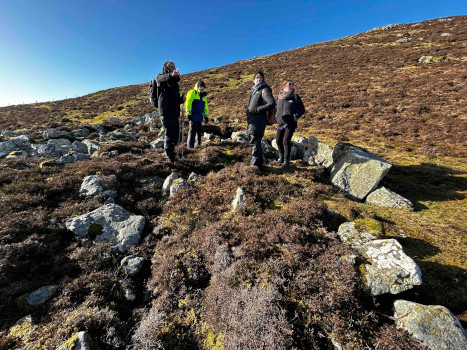
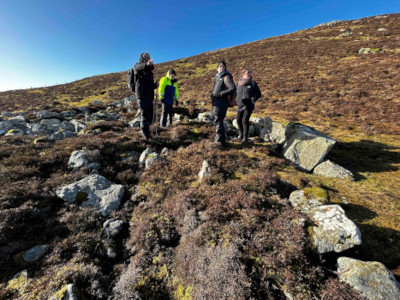
add rainbow

Changed region(s): [[0.78, 0.99, 0.81, 1.0]]

diff --git a/_includes/events.html b/_includes/events.html
@@ -192,12 +192,15 @@ the walk.<br /><br />
            
   
             We try to imagine the landscape and Neolithic people living here - without tarmac roads, houses, and towering lines of telegraph poles. How did they 'see' the landscape? Resting my hands on worn lichen-covered stones, I think about Neolithic hands that lifted and placed them, the communities who lived, worked, and died here thousands of years ago. Impossible to know what they were thinking.<br >
-            
-            In the course of our walk a rainbow appears, an unscheduled but welcome reminder that hope is our theme for the day. We wonder abstractly what hope may have meant to people in 3000 BC. Did hope play any part in burying the dead? We guess there are certain hopes we all share as humans, whatever the place or century.<br >
-            <img src="/img/past/2025/cairn_1_Earnes_Ward.jpg"> <img src="/img/past/2025/terminalia_swae_field_JK_2.jpg">
             <br >
+            In the course of our walk a rainbow appears, an unscheduled but welcome reminder that hope is our theme for the day. We wonder abstractly what hope may have meant to people in 3000 BC. Did hope play any part in burying the dead? We guess there are certain hopes we all share as humans, whatever the place or century.<br >
+            <img src="/img/past/2025/rainbow.jpg">
+            <div class="caption2"> Hope </div>
+           
+     
             
-            Just the act of walking through a place changes it; just through our presence we alter the land. The land has altered since these cairns were first built, just as in 3000 BC the people who built and used them also changed it. A place also changes us - our perceptions challenged, confirmed, shifted.<br > 
+            Just the act of walking through a place changes it; just through our presence we alter the land. The land has altered since these cairns were first built, just as in 3000 BC the people who built and used them also changed it. A place also changes us - our perceptions challenged, confirmed, shifted.<br >        <img src="/img/past/2025/cairn_1_Earnes_Ward.jpg"> <img src="/img/past/2025/terminalia_swae_field_JK_2.jpg">
+         
             <br > 
             There's an important difference between 'knowing' a place through material and numerical methods of measurement and assessment, and 'knowing' a place in the sense that it means something to us, stirs memories, or perhaps inspires contentment or unease. We talk about 'feeling' the landscape, how, in phenomenological terms, we engage with it, exist within it, each bringing something with us to a place. This is the poetry of place.
             <br >
